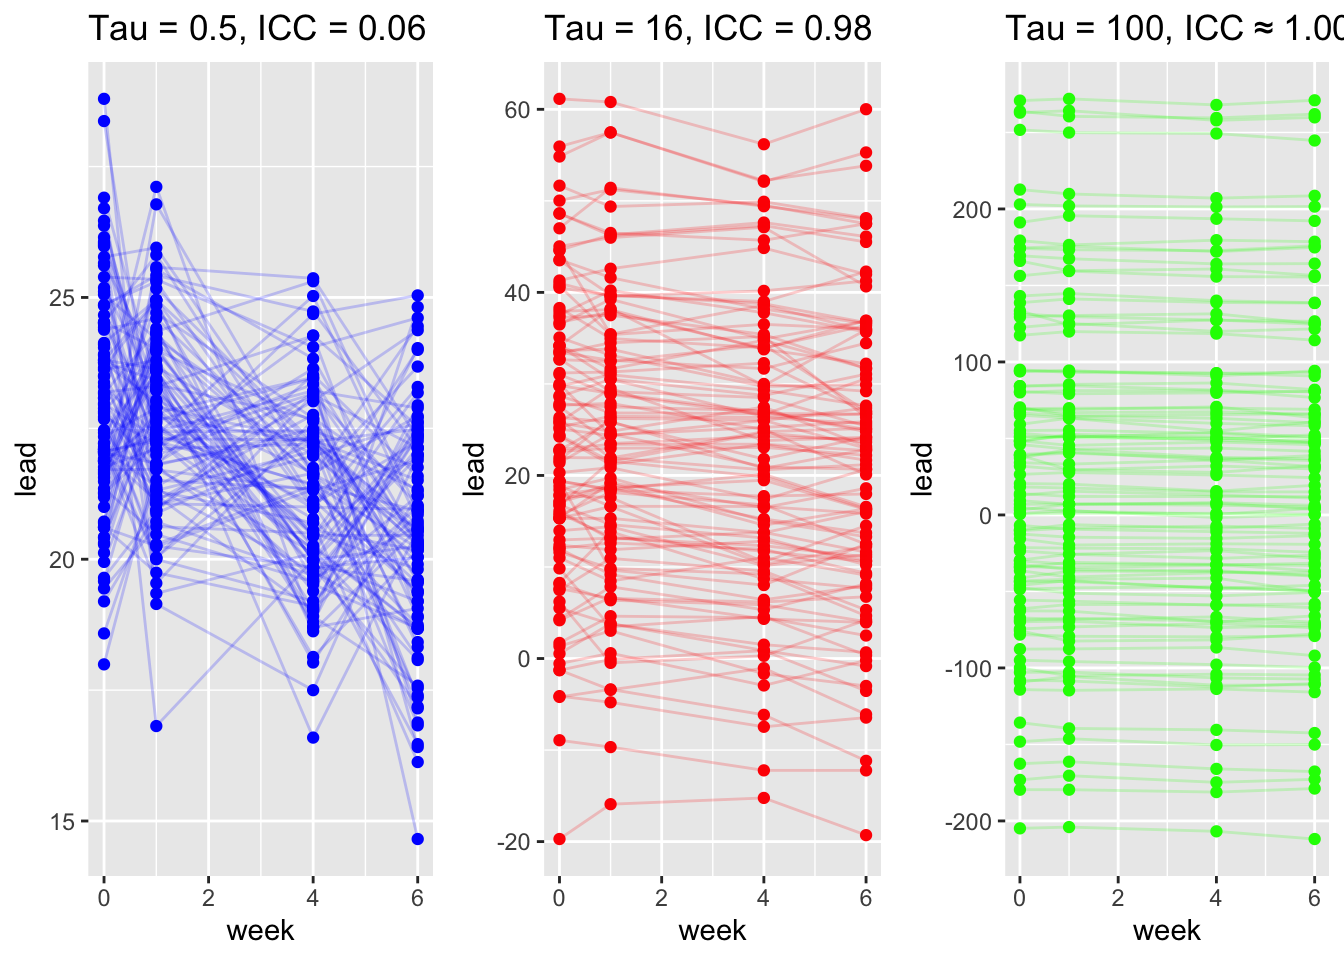
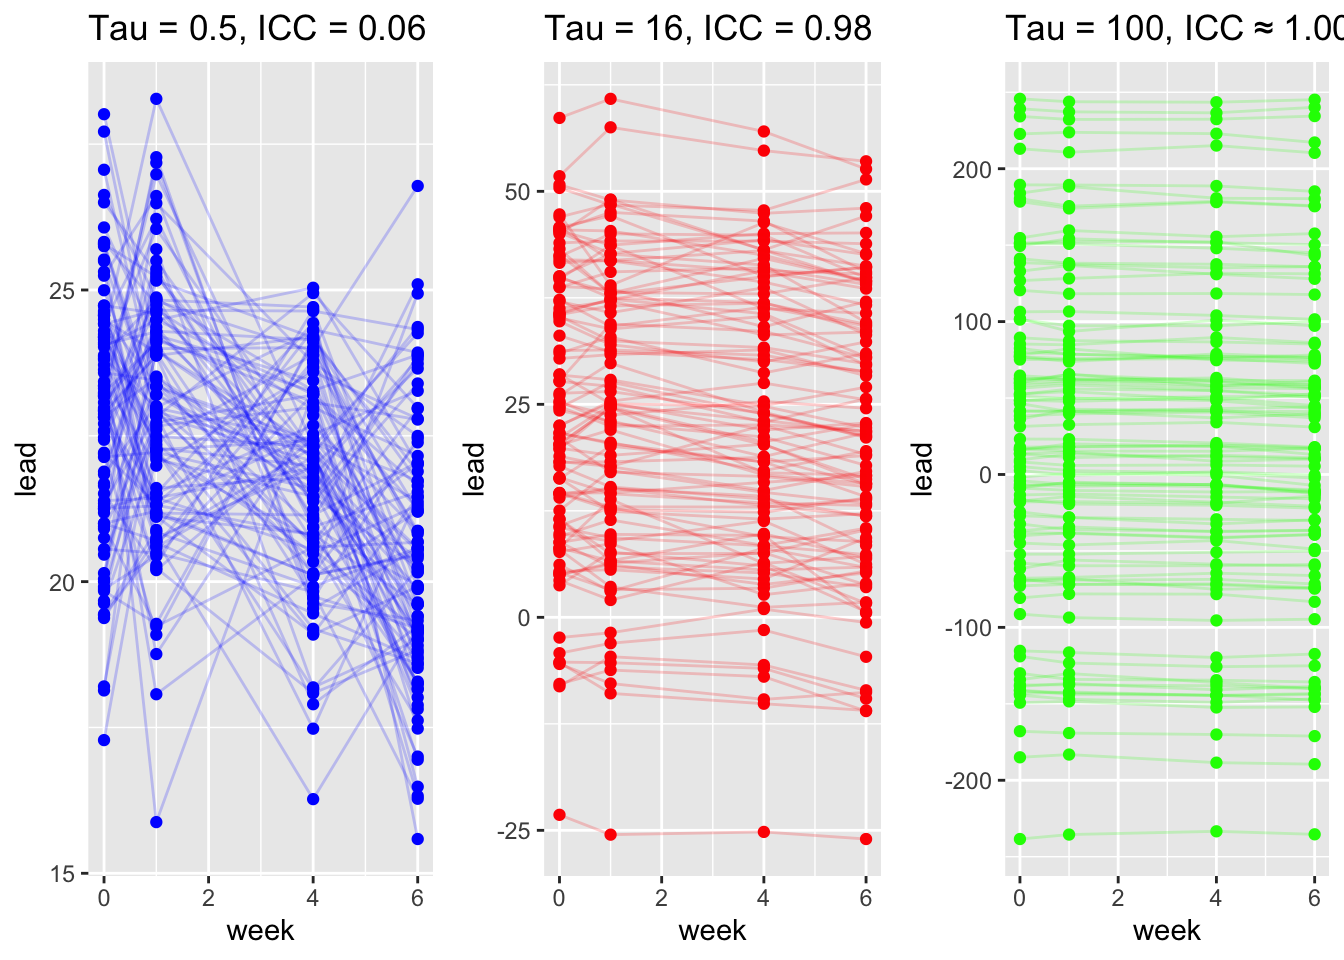
Built site for gh-pages

diff --git a/Module_1B_LMM.html b/Module_1B_LMM.html
@@ -600,25 +600,25 @@ Thus, good variance-component estimates (via REML) improve the estimation and in
 
     <script>
       // Create table-specific functions using external factory
-      const tableFns_coqbuglju21p7jfymozd = TinyTable.createTableFunctions("tinytable_coqbuglju21p7jfymozd");
+      const tableFns_77uqfylgcf7hivxpfzg7 = TinyTable.createTableFunctions("tinytable_77uqfylgcf7hivxpfzg7");
       // tinytable span after
       window.addEventListener('load', function () {
           var cellsToStyle = [
             // tinytable style arrays after
-          { positions: [ { i: '12', j: 2 }, { i: '12', j: 3 } ], css_id: 'tinytable_css_8hzrzlye5ge6mwkr4ky9',}, 
-          { positions: [ { i: '8', j: 2 }, { i: '8', j: 3 } ], css_id: 'tinytable_css_0agh8ndxufkf9psbae0g',}, 
-          { positions: [ { i: '1', j: 2 }, { i: '2', j: 2 }, { i: '3', j: 2 }, { i: '4', j: 2 }, { i: '5', j: 2 }, { i: '6', j: 2 }, { i: '7', j: 2 }, { i: '9', j: 2 }, { i: '10', j: 2 }, { i: '11', j: 2 }, { i: '1', j: 3 }, { i: '2', j: 3 }, { i: '3', j: 3 }, { i: '4', j: 3 }, { i: '5', j: 3 }, { i: '6', j: 3 }, { i: '7', j: 3 }, { i: '9', j: 3 }, { i: '10', j: 3 }, { i: '11', j: 3 } ], css_id: 'tinytable_css_ixwz4f8zo52bhfng3taw',}, 
-          { positions: [ { i: '0', j: 2 }, { i: '0', j: 3 } ], css_id: 'tinytable_css_v9y25bdjiimgw8hieo68',}, 
-          { positions: [ { i: '12', j: 1 } ], css_id: 'tinytable_css_78g6mtmyt2257cptkmge',}, 
-          { positions: [ { i: '8', j: 1 } ], css_id: 'tinytable_css_pbibnnotlg8q72yk7pig',}, 
-          { positions: [ { i: '1', j: 1 }, { i: '2', j: 1 }, { i: '3', j: 1 }, { i: '4', j: 1 }, { i: '5', j: 1 }, { i: '6', j: 1 }, { i: '7', j: 1 }, { i: '9', j: 1 }, { i: '10', j: 1 }, { i: '11', j: 1 } ], css_id: 'tinytable_css_65mphfz334odoi2nrcqc',}, 
-          { positions: [ { i: '0', j: 1 } ], css_id: 'tinytable_css_bft2xdoqnqsf4d1mdxti',}, 
+          { positions: [ { i: '12', j: 2 }, { i: '12', j: 3 } ], css_id: 'tinytable_css_y97ytbnxmxg4tbr9g0h0',}, 
+          { positions: [ { i: '8', j: 2 }, { i: '8', j: 3 } ], css_id: 'tinytable_css_ytdp7nuo8f5glaeyxs3v',}, 
+          { positions: [ { i: '1', j: 2 }, { i: '2', j: 2 }, { i: '3', j: 2 }, { i: '4', j: 2 }, { i: '5', j: 2 }, { i: '6', j: 2 }, { i: '7', j: 2 }, { i: '9', j: 2 }, { i: '10', j: 2 }, { i: '11', j: 2 }, { i: '1', j: 3 }, { i: '2', j: 3 }, { i: '3', j: 3 }, { i: '4', j: 3 }, { i: '5', j: 3 }, { i: '6', j: 3 }, { i: '7', j: 3 }, { i: '9', j: 3 }, { i: '10', j: 3 }, { i: '11', j: 3 } ], css_id: 'tinytable_css_oziojb4azmpao8s7midu',}, 
+          { positions: [ { i: '0', j: 2 }, { i: '0', j: 3 } ], css_id: 'tinytable_css_hao8g4sdn3wdh28l1b9x',}, 
+          { positions: [ { i: '12', j: 1 } ], css_id: 'tinytable_css_89di4n6wt3u08817h6vi',}, 
+          { positions: [ { i: '8', j: 1 } ], css_id: 'tinytable_css_sqe4d9qe1nee000h5yx9',}, 
+          { positions: [ { i: '1', j: 1 }, { i: '2', j: 1 }, { i: '3', j: 1 }, { i: '4', j: 1 }, { i: '5', j: 1 }, { i: '6', j: 1 }, { i: '7', j: 1 }, { i: '9', j: 1 }, { i: '10', j: 1 }, { i: '11', j: 1 } ], css_id: 'tinytable_css_wqxaz40pcake5mg8v8br',}, 
+          { positions: [ { i: '0', j: 1 } ], css_id: 'tinytable_css_5m8ofzdh7d62hprm7qqy',}, 
           ];
 
           // Loop over the arrays to style the cells
           cellsToStyle.forEach(function (group) {
               group.positions.forEach(function (cell) {
-                  tableFns_coqbuglju21p7jfymozd.styleCell(cell.i, cell.j, group.css_id);
+                  tableFns_77uqfylgcf7hivxpfzg7.styleCell(cell.i, cell.j, group.css_id);
               });
           });
       });
@@ -627,17 +627,17 @@ Thus, good variance-component estimates (via REML) improve the estimation and in
     <link rel="stylesheet" href="https://cdn.jsdelivr.net/gh/vincentarelbundock/tinytable@main/inst/tinytable.css">
     <style>
     /* tinytable css entries after */
-    #tinytable_coqbuglju21p7jfymozd td.tinytable_css_8hzrzlye5ge6mwkr4ky9, #tinytable_coqbuglju21p7jfymozd th.tinytable_css_8hzrzlye5ge6mwkr4ky9 {  position: relative; --border-bottom: 1; --border-left: 0; --border-right: 0; --border-top: 0; --line-color-bottom: var(--tt-line-color); --line-color-left: var(--tt-line-color); --line-color-right: var(--tt-line-color); --line-color-top: var(--tt-line-color); --line-width-bottom: 0.08em; --line-width-left: 0.1em; --line-width-right: 0.1em; --line-width-top: 0.1em; --trim-bottom-left: 0%; --trim-bottom-right: 0%; --trim-left-bottom: 0%; --trim-left-top: 0%; --trim-right-bottom: 0%; --trim-right-top: 0%; --trim-top-left: 0%; --trim-top-right: 0%; ; text-align: center }
-    #tinytable_coqbuglju21p7jfymozd td.tinytable_css_0agh8ndxufkf9psbae0g, #tinytable_coqbuglju21p7jfymozd th.tinytable_css_0agh8ndxufkf9psbae0g {  position: relative; --border-bottom: 1; --border-left: 0; --border-right: 0; --border-top: 0; --line-color-bottom: var(--tt-line-color); --line-color-left: var(--tt-line-color); --line-color-right: var(--tt-line-color); --line-color-top: var(--tt-line-color); --line-width-bottom: 0.05em; --line-width-left: 0.1em; --line-width-right: 0.1em; --line-width-top: 0.1em; --trim-bottom-left: 0%; --trim-bottom-right: 0%; --trim-left-bottom: 0%; --trim-left-top: 0%; --trim-right-bottom: 0%; --trim-right-top: 0%; --trim-top-left: 0%; --trim-top-right: 0%; ; text-align: center }
-    #tinytable_coqbuglju21p7jfymozd td.tinytable_css_ixwz4f8zo52bhfng3taw, #tinytable_coqbuglju21p7jfymozd th.tinytable_css_ixwz4f8zo52bhfng3taw { text-align: center }
-    #tinytable_coqbuglju21p7jfymozd td.tinytable_css_v9y25bdjiimgw8hieo68, #tinytable_coqbuglju21p7jfymozd th.tinytable_css_v9y25bdjiimgw8hieo68 {  position: relative; --border-bottom: 1; --border-left: 0; --border-right: 0; --border-top: 1; --line-color-bottom: var(--tt-line-color); --line-color-left: var(--tt-line-color); --line-color-right: var(--tt-line-color); --line-color-top: var(--tt-line-color); --line-width-bottom: 0.05em; --line-width-left: 0.1em; --line-width-right: 0.1em; --line-width-top: 0.08em; --trim-bottom-left: 0%; --trim-bottom-right: 0%; --trim-left-bottom: 0%; --trim-left-top: 0%; --trim-right-bottom: 0%; --trim-right-top: 0%; --trim-top-left: 0%; --trim-top-right: 0%; ; text-align: center }
-    #tinytable_coqbuglju21p7jfymozd td.tinytable_css_78g6mtmyt2257cptkmge, #tinytable_coqbuglju21p7jfymozd th.tinytable_css_78g6mtmyt2257cptkmge {  position: relative; --border-bottom: 1; --border-left: 0; --border-right: 0; --border-top: 0; --line-color-bottom: var(--tt-line-color); --line-color-left: var(--tt-line-color); --line-color-right: var(--tt-line-color); --line-color-top: var(--tt-line-color); --line-width-bottom: 0.08em; --line-width-left: 0.1em; --line-width-right: 0.1em; --line-width-top: 0.1em; --trim-bottom-left: 0%; --trim-bottom-right: 0%; --trim-left-bottom: 0%; --trim-left-top: 0%; --trim-right-bottom: 0%; --trim-right-top: 0%; --trim-top-left: 0%; --trim-top-right: 0%; ; text-align: left }
-    #tinytable_coqbuglju21p7jfymozd td.tinytable_css_pbibnnotlg8q72yk7pig, #tinytable_coqbuglju21p7jfymozd th.tinytable_css_pbibnnotlg8q72yk7pig {  position: relative; --border-bottom: 1; --border-left: 0; --border-right: 0; --border-top: 0; --line-color-bottom: var(--tt-line-color); --line-color-left: var(--tt-line-color); --line-color-right: var(--tt-line-color); --line-color-top: var(--tt-line-color); --line-width-bottom: 0.05em; --line-width-left: 0.1em; --line-width-right: 0.1em; --line-width-top: 0.1em; --trim-bottom-left: 0%; --trim-bottom-right: 0%; --trim-left-bottom: 0%; --trim-left-top: 0%; --trim-right-bottom: 0%; --trim-right-top: 0%; --trim-top-left: 0%; --trim-top-right: 0%; ; text-align: left }
-    #tinytable_coqbuglju21p7jfymozd td.tinytable_css_65mphfz334odoi2nrcqc, #tinytable_coqbuglju21p7jfymozd th.tinytable_css_65mphfz334odoi2nrcqc { text-align: left }
-    #tinytable_coqbuglju21p7jfymozd td.tinytable_css_bft2xdoqnqsf4d1mdxti, #tinytable_coqbuglju21p7jfymozd th.tinytable_css_bft2xdoqnqsf4d1mdxti {  position: relative; --border-bottom: 1; --border-left: 0; --border-right: 0; --border-top: 1; --line-color-bottom: var(--tt-line-color); --line-color-left: var(--tt-line-color); --line-color-right: var(--tt-line-color); --line-color-top: var(--tt-line-color); --line-width-bottom: 0.05em; --line-width-left: 0.1em; --line-width-right: 0.1em; --line-width-top: 0.08em; --trim-bottom-left: 0%; --trim-bottom-right: 0%; --trim-left-bottom: 0%; --trim-left-top: 0%; --trim-right-bottom: 0%; --trim-right-top: 0%; --trim-top-left: 0%; --trim-top-right: 0%; ; text-align: left }
+    #tinytable_77uqfylgcf7hivxpfzg7 td.tinytable_css_y97ytbnxmxg4tbr9g0h0, #tinytable_77uqfylgcf7hivxpfzg7 th.tinytable_css_y97ytbnxmxg4tbr9g0h0 {  position: relative; --border-bottom: 1; --border-left: 0; --border-right: 0; --border-top: 0; --line-color-bottom: var(--tt-line-color); --line-color-left: var(--tt-line-color); --line-color-right: var(--tt-line-color); --line-color-top: var(--tt-line-color); --line-width-bottom: 0.08em; --line-width-left: 0.1em; --line-width-right: 0.1em; --line-width-top: 0.1em; --trim-bottom-left: 0%; --trim-bottom-right: 0%; --trim-left-bottom: 0%; --trim-left-top: 0%; --trim-right-bottom: 0%; --trim-right-top: 0%; --trim-top-left: 0%; --trim-top-right: 0%; ; text-align: center }
+    #tinytable_77uqfylgcf7hivxpfzg7 td.tinytable_css_ytdp7nuo8f5glaeyxs3v, #tinytable_77uqfylgcf7hivxpfzg7 th.tinytable_css_ytdp7nuo8f5glaeyxs3v {  position: relative; --border-bottom: 1; --border-left: 0; --border-right: 0; --border-top: 0; --line-color-bottom: var(--tt-line-color); --line-color-left: var(--tt-line-color); --line-color-right: var(--tt-line-color); --line-color-top: var(--tt-line-color); --line-width-bottom: 0.05em; --line-width-left: 0.1em; --line-width-right: 0.1em; --line-width-top: 0.1em; --trim-bottom-left: 0%; --trim-bottom-right: 0%; --trim-left-bottom: 0%; --trim-left-top: 0%; --trim-right-bottom: 0%; --trim-right-top: 0%; --trim-top-left: 0%; --trim-top-right: 0%; ; text-align: center }
+    #tinytable_77uqfylgcf7hivxpfzg7 td.tinytable_css_oziojb4azmpao8s7midu, #tinytable_77uqfylgcf7hivxpfzg7 th.tinytable_css_oziojb4azmpao8s7midu { text-align: center }
+    #tinytable_77uqfylgcf7hivxpfzg7 td.tinytable_css_hao8g4sdn3wdh28l1b9x, #tinytable_77uqfylgcf7hivxpfzg7 th.tinytable_css_hao8g4sdn3wdh28l1b9x {  position: relative; --border-bottom: 1; --border-left: 0; --border-right: 0; --border-top: 1; --line-color-bottom: var(--tt-line-color); --line-color-left: var(--tt-line-color); --line-color-right: var(--tt-line-color); --line-color-top: var(--tt-line-color); --line-width-bottom: 0.05em; --line-width-left: 0.1em; --line-width-right: 0.1em; --line-width-top: 0.08em; --trim-bottom-left: 0%; --trim-bottom-right: 0%; --trim-left-bottom: 0%; --trim-left-top: 0%; --trim-right-bottom: 0%; --trim-right-top: 0%; --trim-top-left: 0%; --trim-top-right: 0%; ; text-align: center }
+    #tinytable_77uqfylgcf7hivxpfzg7 td.tinytable_css_89di4n6wt3u08817h6vi, #tinytable_77uqfylgcf7hivxpfzg7 th.tinytable_css_89di4n6wt3u08817h6vi {  position: relative; --border-bottom: 1; --border-left: 0; --border-right: 0; --border-top: 0; --line-color-bottom: var(--tt-line-color); --line-color-left: var(--tt-line-color); --line-color-right: var(--tt-line-color); --line-color-top: var(--tt-line-color); --line-width-bottom: 0.08em; --line-width-left: 0.1em; --line-width-right: 0.1em; --line-width-top: 0.1em; --trim-bottom-left: 0%; --trim-bottom-right: 0%; --trim-left-bottom: 0%; --trim-left-top: 0%; --trim-right-bottom: 0%; --trim-right-top: 0%; --trim-top-left: 0%; --trim-top-right: 0%; ; text-align: left }
+    #tinytable_77uqfylgcf7hivxpfzg7 td.tinytable_css_sqe4d9qe1nee000h5yx9, #tinytable_77uqfylgcf7hivxpfzg7 th.tinytable_css_sqe4d9qe1nee000h5yx9 {  position: relative; --border-bottom: 1; --border-left: 0; --border-right: 0; --border-top: 0; --line-color-bottom: var(--tt-line-color); --line-color-left: var(--tt-line-color); --line-color-right: var(--tt-line-color); --line-color-top: var(--tt-line-color); --line-width-bottom: 0.05em; --line-width-left: 0.1em; --line-width-right: 0.1em; --line-width-top: 0.1em; --trim-bottom-left: 0%; --trim-bottom-right: 0%; --trim-left-bottom: 0%; --trim-left-top: 0%; --trim-right-bottom: 0%; --trim-right-top: 0%; --trim-top-left: 0%; --trim-top-right: 0%; ; text-align: left }
+    #tinytable_77uqfylgcf7hivxpfzg7 td.tinytable_css_wqxaz40pcake5mg8v8br, #tinytable_77uqfylgcf7hivxpfzg7 th.tinytable_css_wqxaz40pcake5mg8v8br { text-align: left }
+    #tinytable_77uqfylgcf7hivxpfzg7 td.tinytable_css_5m8ofzdh7d62hprm7qqy, #tinytable_77uqfylgcf7hivxpfzg7 th.tinytable_css_5m8ofzdh7d62hprm7qqy {  position: relative; --border-bottom: 1; --border-left: 0; --border-right: 0; --border-top: 1; --line-color-bottom: var(--tt-line-color); --line-color-left: var(--tt-line-color); --line-color-right: var(--tt-line-color); --line-color-top: var(--tt-line-color); --line-width-bottom: 0.05em; --line-width-left: 0.1em; --line-width-right: 0.1em; --line-width-top: 0.08em; --trim-bottom-left: 0%; --trim-bottom-right: 0%; --trim-left-bottom: 0%; --trim-left-top: 0%; --trim-right-bottom: 0%; --trim-right-top: 0%; --trim-top-left: 0%; --trim-top-right: 0%; ; text-align: left }
     </style>
     <div class="container">
-      <table class="tinytable" id="tinytable_coqbuglju21p7jfymozd" style="width: auto; margin-left: auto; margin-right: auto;" data-quarto-disable-processing="true">
+      <table class="tinytable" id="tinytable_77uqfylgcf7hivxpfzg7" style="width: auto; margin-left: auto; margin-right: auto;" data-quarto-disable-processing="true">
         
         <thead>
               <tr>

diff --git a/Module_5A_GAMs.html b/Module_5A_GAMs.html
@@ -470,7 +470,7 @@ Basis dimension (k) checking results. Low p-value (k-index&lt;1) may
 indicate that k is too low, especially if edf is close to k'.
 
          k'  edf k-index p-value
-s(age) 9.00 3.31    0.91    0.18</code></pre>
+s(age) 9.00 3.31    0.95    0.78</code></pre>
 </div>
 </div>
 <p><strong>Interpretation:</strong></p>
@@ -720,13 +720,13 @@ Basis dimension (k) checking results. Low p-value (k-index&lt;1) may
 indicate that k is too low, especially if edf is close to k'.
 
                 k'   edf k-index p-value    
-s(pm25_lag1)  9.00  1.00    1.03    0.92    
-s(doy)       28.00 13.65    1.02    0.83    
+s(pm25_lag1)  9.00  1.00    1.03    0.94    
+s(doy)       28.00 13.65    1.02    0.85    
 s(date2)     99.00 11.11    0.93  &lt;2e-16 ***
-s(Temp)       9.00  1.69    1.00    0.52    
-s(DpTemp)     9.00  1.00    1.00    0.45    
-s(rmTemp)     9.00  5.42    1.05    0.98    
-s(rmDpTemp)   9.00  1.00    1.01    0.62    
+s(Temp)       9.00  1.69    1.00    0.54    
+s(DpTemp)     9.00  1.00    1.00    0.54    
+s(rmTemp)     9.00  5.42    1.05    0.99    
+s(rmDpTemp)   9.00  1.00    1.01    0.69    
 ---
 Signif. codes:  0 '***' 0.001 '**' 0.01 '*' 0.05 '.' 0.1 ' ' 1</code></pre>
 </div>

diff --git a/Module_1A_LMM.html b/Module_1A_LMM.html
@@ -775,7 +775,7 @@ Intraclass Correlation
 </div>
 </div>
 <div class="callout-body-container callout-body">
-<p>Note that the within-group covariance is <span class="math inline">\(Cov(y_{ij}, y_{ij'}) = \tau^2\)</span>. So the correlation between observations within the same group is:</p>
+<p>Note that the between group variance is <span class="math inline">\(Cov(y_{ij}, y_{ij'}) = \tau^2\)</span>. So the correlation between observations within the same group is:</p>
 <p><span class="math display">\[
 \rho = Corr(y_{ij}, y_{ij'}) = \frac{\tau^2}{\tau^2 + \sigma^2} \text{ for all }j \neq j'.
 \]</span></p>

diff --git a/index.html b/index.html
@@ -7,7 +7,7 @@
 <meta name="viewport" content="width=device-width, initial-scale=1.0, user-scalable=yes">
 
 <meta name="author" content="Emily Peterson">
-<meta name="dcterms.date" content="2025-01-01">
+<meta name="dcterms.date" content="2026-01-01">
 
 <title>BIOS 526 Modern Regression Analysis</title>
 <style>
@@ -269,7 +269,7 @@ ul.task-list li input[type="checkbox"] {
     <div>
     <div class="quarto-title-meta-heading">Published</div>
     <div class="quarto-title-meta-contents">
-      <p class="date">January 1, 2025</p>
+      <p class="date">January 1, 2026</p>
     </div>
   </div>
   
